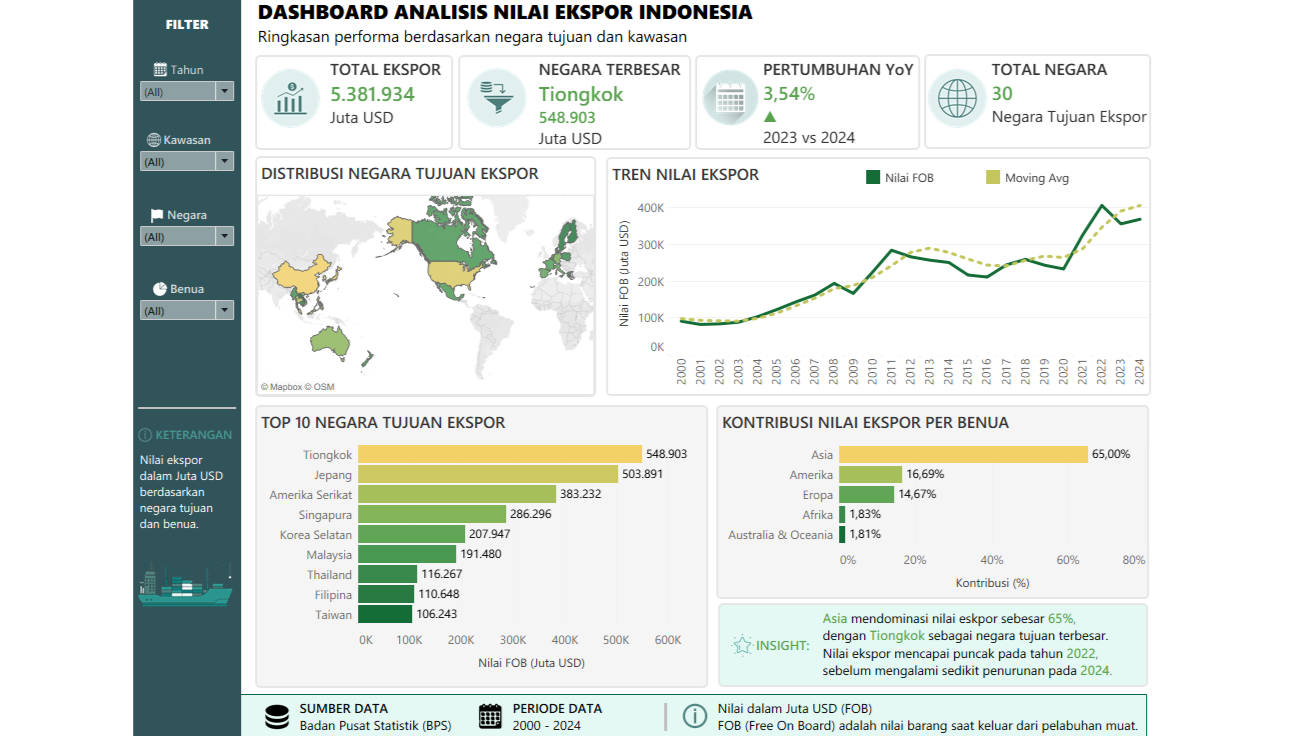
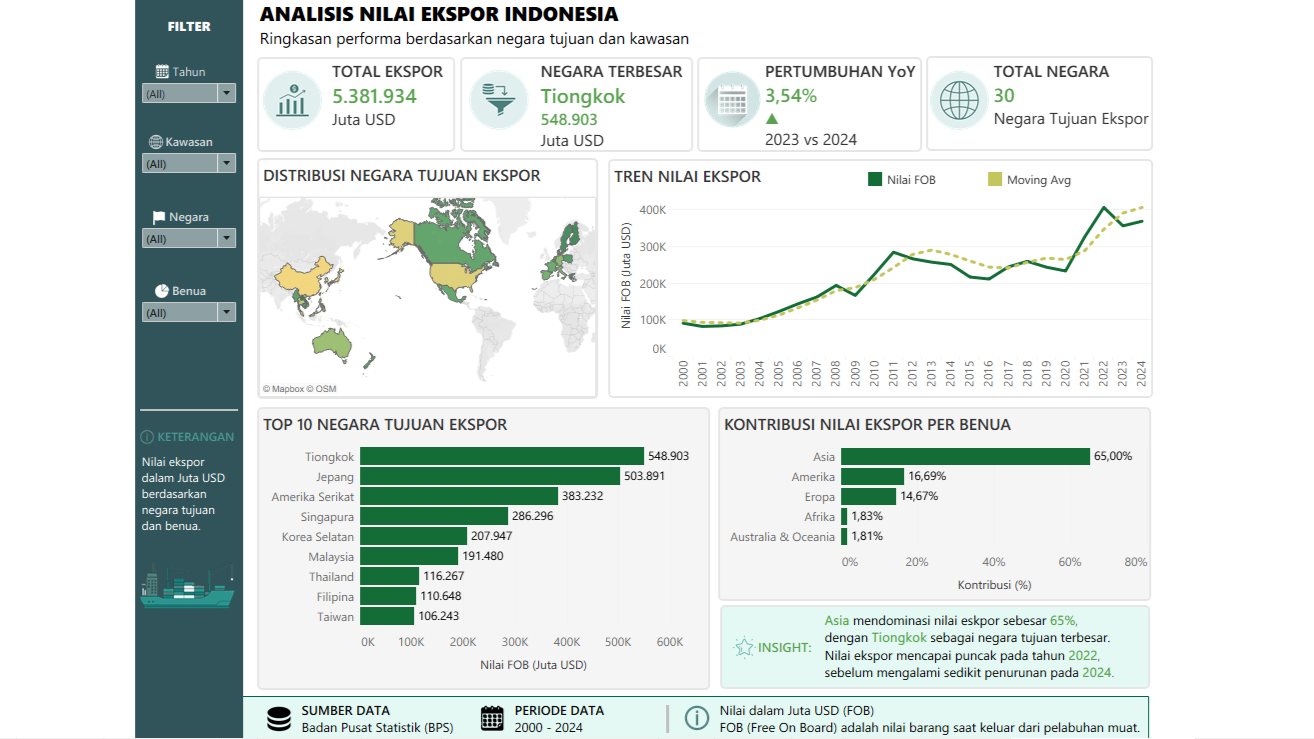
Update portfolio preview images

diff --git a/index.html b/index.html
@@ -77,7 +77,7 @@
 
         <article class="carousel__slide is-active">
           <div class="carousel__embed">
-            <img src="Assets//Images/dashboard-baubau-corp-preview.jfif" alt="Company Portfolio & Marketing Performance Dashboard">
+            <img src="Assets//Images/dashboard-baubau-corp-preview.png" alt="Company Portfolio & Marketing Performance Dashboard">
           </div>
           <div class="carousel__caption">
             <span class="tag">Google Data Studio</span>
@@ -126,7 +126,7 @@
   <!-- ============ ABOUT ============ -->
   <section class="about container" id="about">
     <p class="eyebrow">About Me</p>
-    <h2>Dari Riset Hubungan Internasional ke Data &amp; Business Analytics</h2>
+    <h2>Dari Riset Hubungan Internasional ke Data &amp; Business Intelligence</h2>
     <p>
       Selama menempuh studi Hubungan Internasional, saya terbiasa membedah isu kompleks melalui riset
       mendalam, menyusun argumen berbasis data, dan menyampaikannya dalam tulisan yang jelas dan terstruktur.
@@ -205,7 +205,7 @@
     <div class="project-grid" id="projectGrid">
 
       <article class="project-card" data-category="dashboard">
-        <div class="project-card__thumb"><img src="Assets//Images/dashboard-baubau-corp-preview.jfif" alt="Company Portfolio & Marketing Performance Dashboard"></div>
+        <div class="project-card__thumb"><img src="Assets//Images/dashboard-baubau-corp-preview.png" alt="Company Portfolio & Marketing Performance Dashboard"></div>
         <div class="project-card__body">
           <span class="tag">Dashboard</span>
           <h3>Company Portfolio & Marketing Performance Dashboard</h3>

diff --git a/Projects/dashboard-analisis-ekspor.html b/Projects/dashboard-analisis-ekspor.html
@@ -231,7 +231,7 @@
       <article class="project-card">
         <div class="project-card__thumb">
           <img 
-          src="../Assets//Images/dashboard-baubau-corp-preview.jfif" 
+          src="../Assets//Images/dashboard-baubau-corp-preview.png" 
           alt="Company Portfolio & Marketing Performance Dashboard">
         </div>
         <div class="project-card__body">

diff --git a/Projects/dashboard-perdagangan-migas.html b/Projects/dashboard-perdagangan-migas.html
@@ -230,7 +230,7 @@
       <article class="project-card">
         <div class="project-card__thumb">
           <img 
-          src="../Assets//Images/dashboard-baubau-corp-preview.jfif" 
+          src="../Assets//Images/dashboard-baubau-corp-preview.png" 
           alt="Company Portfolio & Marketing Performance Dashboard">
         </div>
         <div class="project-card__body">

diff --git a/Projects/dashboard-sales-performance.html b/Projects/dashboard-sales-performance.html
@@ -238,7 +238,7 @@
       <article class="project-card">
         <div class="project-card__thumb">
           <img 
-          src="../Assets//Images/dashboard-baubau-corp-preview.jfif" 
+          src="../Assets//Images/dashboard-baubau-corp-preview.png" 
           alt="Company Portfolio & Marketing Performance Dashboard">
         </div>
         <div class="project-card__body">

diff --git a/Projects/dashboard-baubau-corp.html b/Projects/dashboard-baubau-corp.html
@@ -160,7 +160,7 @@
           rel="noopener noreferrer">
 
           <img
-          src="../Assets//Images/dashboard-baubau-corp-preview.jfif"
+          src="../Assets//Images/dashboard-baubau-corp-preview.png"
           alt="Company Portfolio & Marketing Performance Dashboard">
 
         </a>
